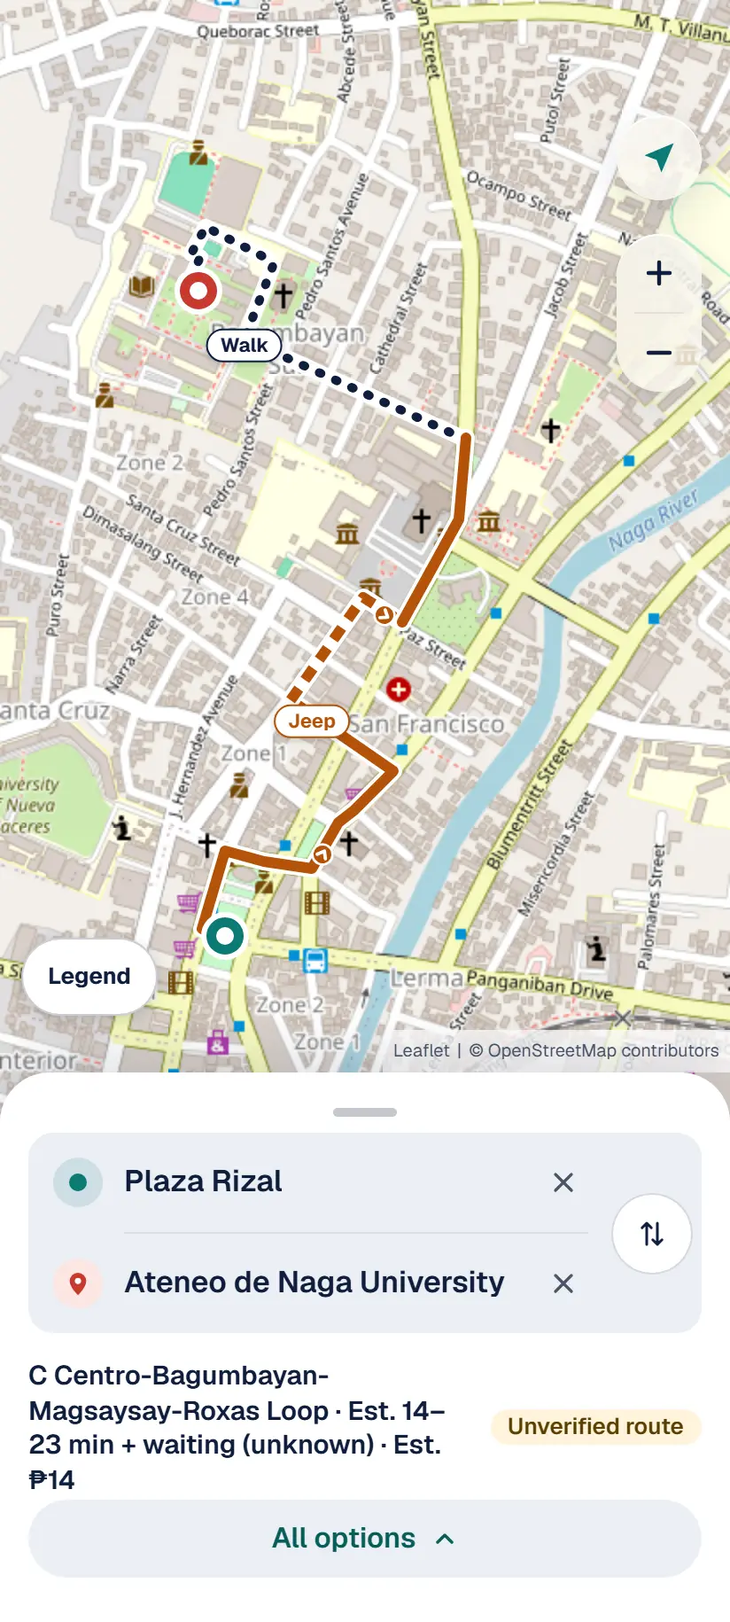
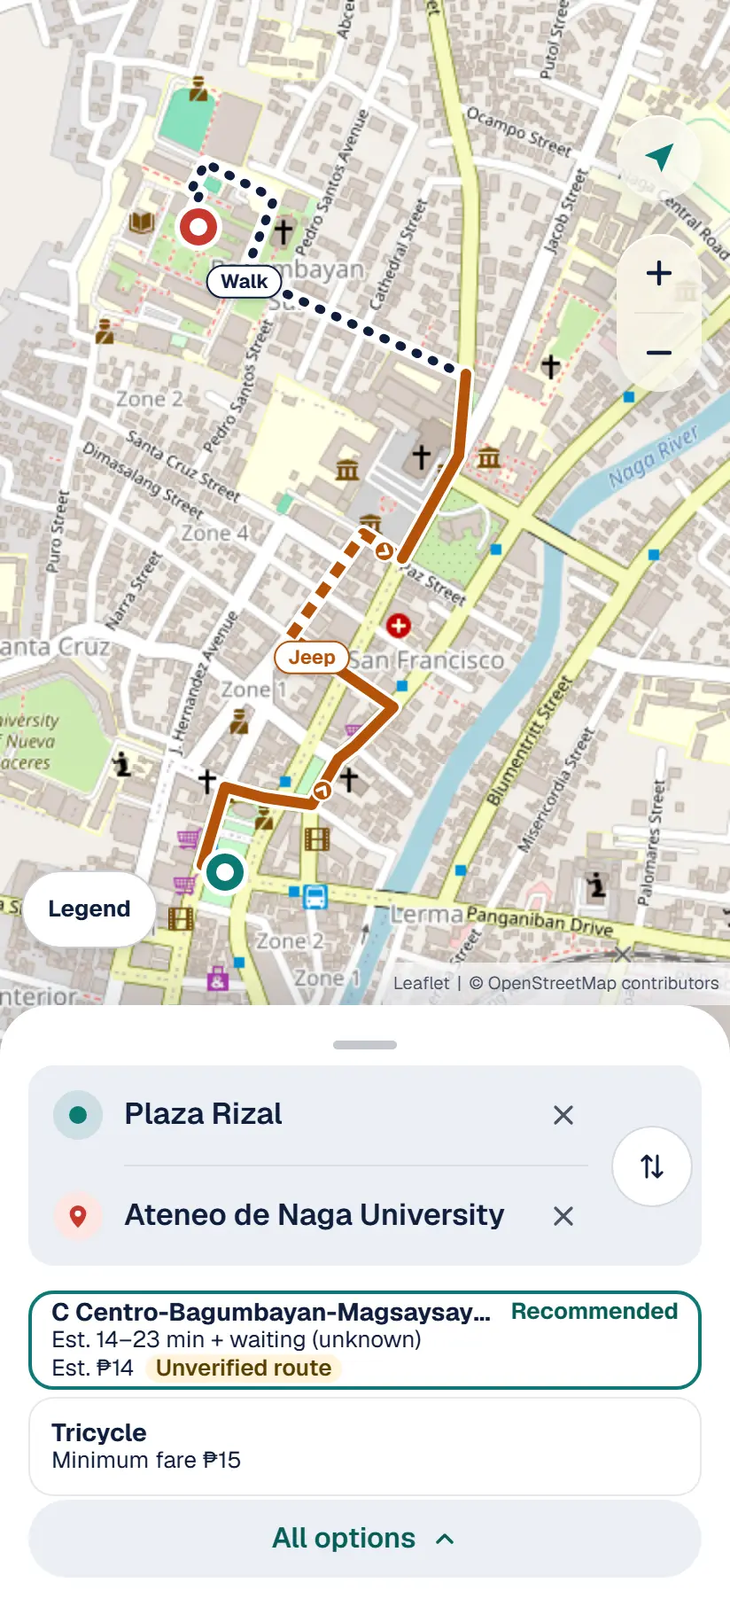
feat(web): landing captures follow current master (two-card peek, route tally)
- Re-captured every screen from current master against the published API: directions and the
  hero show the two-card peek (Recommended jeepney + tricycle), cards and detail show the route
  tally names (C ... Loop C (clockwise)), far-area options as the planner now gives them.
- Hero lines regenerated from the new capture (both themes).
- Route list on the page comes straight from src/domain/planner/route-display.ts (letters E-J and
  A-D, R1 without a letter), so it cannot drift again; copy says a route with no known letter
  shows its title alone and the route page gives each letter's source.
- Alt text and the directions showcase step describe the two-card peek and the new names.
- Far capture shows the options list from its top; capture size constants in shot-size.ts so the
  client slider does not bundle the copy.

diff --git a/src/ui/landing/hero-lines.ts b/src/ui/landing/hero-lines.ts
@@ -2,4 +2,4 @@
 // University), in screen pixels of the 412 x 915 capture, one set per theme. Do not edit by hand.
 // `step` is the piece's place in the trip (0 = leaving the start), for the draw-in order.
 export type HeroLine = { kind: "casing" | "walk" | "ride"; color: string; width: number; dash: string | null; points: string; step: number };
-export const HERO_LINES: Record<"light" | "dark", readonly HeroLine[]> = {"light":[{"kind":"casing","color":"rgb(255, 255, 255)","width":9,"dash":null,"points":"126.0,528.0 123.2,527.1 120.3,526.1 117.5,525.2 114.6,524.2 114.0,524.0","step":0},{"kind":"casing","color":"rgb(255, 255, 255)","width":10,"dash":null,"points":"114.0,524.0 114.9,521.1 115.7,518.2 116.6,515.4 117.4,512.5 118.3,509.6 119.1,506.7 120.0,503.9 120.8,501.0 121.7,498.1 122.5,495.2 123.4,492.4 124.2,489.5 125.1,486.6 125.9,483.7 126.8,480.8 129.0,480.6 131.9,481.3 134.8,482.1 137.7,482.9 140.6,483.7 143.5,484.5 146.4,485.3 149.3,486.0 152.3,486.5 155.2,486.9 158.2,487.4 161.2,487.8 164.2,488.2 167.1,488.7 170.1,489.1 173.1,489.6 176.0,490.0 177.5,487.4 179.0,484.8 180.5,482.2 182.0,479.6 183.5,477.0 185.0,474.4 186.5,471.8 188.0,469.2 189.5,466.6 191.0,464.0 193.4,462.2 195.7,460.3 198.1,458.5 200.4,456.6 202.5,454.5 204.7,452.3 206.8,450.2 208.9,448.1 211.0,446.0 213.2,443.8 215.3,441.7 217.4,439.6 219.5,437.5 221.6,435.4 219.9,433.6 217.5,431.9 215.0,430.2 212.5,428.5 210.1,426.8 207.6,425.1 205.1,423.4 202.7,421.7 200.2,420.0 197.7,418.3 195.3,416.6 192.8,414.9 190.3,413.1 187.8,411.4 185.4,409.7 182.9,408.0 180.4,406.3 178.0,404.6 175.5,402.9 173.0,401.2 170.6,399.5 168.1,397.8 165.6,396.1 164.0,395.0","step":1},{"kind":"casing","color":"rgb(255, 255, 255)","width":10,"dash":null,"points":"164.0,395.0 165.7,392.6 167.5,390.1 169.2,387.7 170.9,385.2 172.7,382.8 174.4,380.3 176.1,377.9 177.9,375.4 179.6,373.0 181.3,370.5 183.0,368.1 184.8,365.6 186.5,363.2 188.2,360.7 190.0,358.3 191.7,355.8 193.4,353.4 195.2,350.9 196.9,348.5 198.6,346.0 200.4,343.6 202.1,341.1 203.8,338.7 205.8,337.5 208.4,339.1 210.9,340.7 213.4,342.4 215.9,344.0 218.5,345.6 221.0,347.2 223.5,348.8 226.1,350.4 227.0,351.0","step":2},{"kind":"casing","color":"rgb(255, 255, 255)","width":10,"dash":null,"points":"227.0,351.0 228.4,348.4 229.9,345.7 231.3,343.1 232.8,340.5 234.2,337.9 235.7,335.2 237.1,332.6 238.6,330.0 240.0,327.4 241.5,324.7 242.9,322.1 244.4,319.5 245.8,316.9 247.3,314.2 248.7,311.6 250.2,309.0 251.6,306.3 253.1,303.7 254.5,301.1 256.0,298.5 257.4,295.8 258.9,293.2 259.2,290.3 259.5,287.3 259.8,284.3 260.0,281.3 260.3,278.3 260.5,275.3 260.8,272.3 261.1,269.3 261.3,266.3 261.6,263.4 261.8,260.4 262.1,257.4 262.4,254.4 262.6,251.4 262.9,248.4 263.0,247.0","step":3},{"kind":"casing","color":"rgb(255, 255, 255)","width":9,"dash":null,"points":"263.0,248.0 260.3,246.8 257.5,245.5 254.8,244.3 252.1,243.0 249.4,241.8 246.6,240.5 243.9,239.3 241.2,238.0 238.4,236.8 235.7,235.6 233.0,234.3 230.2,233.1 227.5,231.8 224.8,230.6 222.1,229.3 219.3,228.1 216.6,226.8 213.9,225.6 211.1,224.4 208.4,223.1 205.7,221.9 202.9,220.6 200.2,219.4 197.5,218.1 194.8,216.9 192.0,215.6 189.3,214.4 186.6,213.1 183.8,211.9 181.1,210.7 178.4,209.4 175.7,208.2 172.9,206.9 170.2,205.7 167.5,204.4 164.7,203.2 162.0,201.9 159.3,200.7 156.5,199.5 153.8,198.2 151.1,197.0 148.4,195.7 145.6,194.5 142.9,193.2 140.2,192.0 138.2,190.4 139.3,187.6 140.4,184.8 141.5,182.0 142.6,179.2 143.7,176.5 144.8,173.7 145.9,170.9 146.9,168.1 148.0,165.3 149.1,162.5 150.2,159.7 151.3,156.9 152.4,154.1 153.5,151.3 153.0,148.7 151.2,146.3 148.7,144.8 146.0,143.4 143.3,142.1 140.7,140.7 138.0,139.3 135.3,137.9 132.7,136.6 130.0,135.2 127.3,133.8 124.7,132.5 122.0,131.1 119.3,129.7 116.7,128.3 114.9,130.0 113.5,132.6 112.1,135.3 110.7,137.9 109.3,140.6 108.2,143.1 111.0,144.2 112.7,145.8 111.5,148.5 110.2,151.3 109.0,154.0 107.8,156.8 106.6,159.5 107.3,161.6 109.9,163.0 112.0,164.0","step":4},{"kind":"walk","color":"rgb(15, 30, 61)","width":5,"dash":"1px, 9px","points":"126.0,528.0 123.2,527.1 120.3,526.1 117.5,525.2 114.6,524.2 114.0,524.0","step":0},{"kind":"ride","color":"rgb(180, 83, 9)","width":6,"dash":null,"points":"114.0,524.0 114.9,521.1 115.7,518.2 116.6,515.4 117.4,512.5 118.3,509.6 119.1,506.7 120.0,503.9 120.8,501.0 121.7,498.1 122.5,495.2 123.4,492.4 124.2,489.5 125.1,486.6 125.9,483.7 126.8,480.8 129.0,480.6 131.9,481.3 134.8,482.1 137.7,482.9 140.6,483.7 143.5,484.5 146.4,485.3 149.3,486.0 152.3,486.5 155.2,486.9 158.2,487.4 161.2,487.8 164.2,488.2 167.1,488.7 170.1,489.1 173.1,489.6 176.0,490.0 177.5,487.4 179.0,484.8 180.5,482.2 182.0,479.6 183.5,477.0 185.0,474.4 186.5,471.8 188.0,469.2 189.5,466.6 191.0,464.0 193.4,462.2 195.7,460.3 198.1,458.5 200.4,456.6 202.5,454.5 204.7,452.3 206.8,450.2 208.9,448.1 211.0,446.0 213.2,443.8 215.3,441.7 217.4,439.6 219.5,437.5 221.6,435.4 219.9,433.6 217.5,431.9 215.0,430.2 212.5,428.5 210.1,426.8 207.6,425.1 205.1,423.4 202.7,421.7 200.2,420.0 197.7,418.3 195.3,416.6 192.8,414.9 190.3,413.1 187.8,411.4 185.4,409.7 182.9,408.0 180.4,406.3 178.0,404.6 175.5,402.9 173.0,401.2 170.6,399.5 168.1,397.8 165.6,396.1 164.0,395.0","step":1},{"kind":"ride","color":"rgb(180, 83, 9)","width":6,"dash":"8px, 6px","points":"164.0,395.0 165.7,392.6 167.5,390.1 169.2,387.7 170.9,385.2 172.7,382.8 174.4,380.3 176.1,377.9 177.9,375.4 179.6,373.0 181.3,370.5 183.0,368.1 184.8,365.6 186.5,363.2 188.2,360.7 190.0,358.3 191.7,355.8 193.4,353.4 195.2,350.9 196.9,348.5 198.6,346.0 200.4,343.6 202.1,341.1 203.8,338.7 205.8,337.5 208.4,339.1 210.9,340.7 213.4,342.4 215.9,344.0 218.5,345.6 221.0,347.2 223.5,348.8 226.1,350.4 227.0,351.0","step":2},{"kind":"ride","color":"rgb(180, 83, 9)","width":6,"dash":null,"points":"227.0,351.0 228.4,348.4 229.9,345.7 231.3,343.1 232.8,340.5 234.2,337.9 235.7,335.2 237.1,332.6 238.6,330.0 240.0,327.4 241.5,324.7 242.9,322.1 244.4,319.5 245.8,316.9 247.3,314.2 248.7,311.6 250.2,309.0 251.6,306.3 253.1,303.7 254.5,301.1 256.0,298.5 257.4,295.8 258.9,293.2 259.2,290.3 259.5,287.3 259.8,284.3 260.0,281.3 260.3,278.3 260.5,275.3 260.8,272.3 261.1,269.3 261.3,266.3 261.6,263.4 261.8,260.4 262.1,257.4 262.4,254.4 262.6,251.4 262.9,248.4 263.0,247.0","step":3},{"kind":"walk","color":"rgb(15, 30, 61)","width":5,"dash":"1px, 9px","points":"263.0,248.0 260.3,246.8 257.5,245.5 254.8,244.3 252.1,243.0 249.4,241.8 246.6,240.5 243.9,239.3 241.2,238.0 238.4,236.8 235.7,235.6 233.0,234.3 230.2,233.1 227.5,231.8 224.8,230.6 222.1,229.3 219.3,228.1 216.6,226.8 213.9,225.6 211.1,224.4 208.4,223.1 205.7,221.9 202.9,220.6 200.2,219.4 197.5,218.1 194.8,216.9 192.0,215.6 189.3,214.4 186.6,213.1 183.8,211.9 181.1,210.7 178.4,209.4 175.7,208.2 172.9,206.9 170.2,205.7 167.5,204.4 164.7,203.2 162.0,201.9 159.3,200.7 156.5,199.5 153.8,198.2 151.1,197.0 148.4,195.7 145.6,194.5 142.9,193.2 140.2,192.0 138.2,190.4 139.3,187.6 140.4,184.8 141.5,182.0 142.6,179.2 143.7,176.5 144.8,173.7 145.9,170.9 146.9,168.1 148.0,165.3 149.1,162.5 150.2,159.7 151.3,156.9 152.4,154.1 153.5,151.3 153.0,148.7 151.2,146.3 148.7,144.8 146.0,143.4 143.3,142.1 140.7,140.7 138.0,139.3 135.3,137.9 132.7,136.6 130.0,135.2 127.3,133.8 124.7,132.5 122.0,131.1 119.3,129.7 116.7,128.3 114.9,130.0 113.5,132.6 112.1,135.3 110.7,137.9 109.3,140.6 108.2,143.1 111.0,144.2 112.7,145.8 111.5,148.5 110.2,151.3 109.0,154.0 107.8,156.8 106.6,159.5 107.3,161.6 109.9,163.0 112.0,164.0","step":4}],"dark":[{"kind":"casing","color":"rgb(255, 255, 255)","width":9,"dash":null,"points":"126.0,528.0 123.2,527.1 120.3,526.1 117.5,525.2 114.6,524.2 114.0,524.0","step":0},{"kind":"casing","color":"rgb(255, 255, 255)","width":10,"dash":null,"points":"114.0,524.0 114.9,521.1 115.7,518.2 116.6,515.4 117.4,512.5 118.3,509.6 119.1,506.7 120.0,503.9 120.8,501.0 121.7,498.1 122.5,495.2 123.4,492.4 124.2,489.5 125.1,486.6 125.9,483.7 126.8,480.8 129.0,480.6 131.9,481.3 134.8,482.1 137.7,482.9 140.6,483.7 143.5,484.5 146.4,485.3 149.3,486.0 152.3,486.5 155.2,486.9 158.2,487.4 161.2,487.8 164.2,488.2 167.1,488.7 170.1,489.1 173.1,489.6 176.0,490.0 177.5,487.4 179.0,484.8 180.5,482.2 182.0,479.6 183.5,477.0 185.0,474.4 186.5,471.8 188.0,469.2 189.5,466.6 191.0,464.0 193.4,462.2 195.7,460.3 198.1,458.5 200.4,456.6 202.5,454.5 204.7,452.3 206.8,450.2 208.9,448.1 211.0,446.0 213.2,443.8 215.3,441.7 217.4,439.6 219.5,437.5 221.6,435.4 219.9,433.6 217.5,431.9 215.0,430.2 212.5,428.5 210.1,426.8 207.6,425.1 205.1,423.4 202.7,421.7 200.2,420.0 197.7,418.3 195.3,416.6 192.8,414.9 190.3,413.1 187.8,411.4 185.4,409.7 182.9,408.0 180.4,406.3 178.0,404.6 175.5,402.9 173.0,401.2 170.6,399.5 168.1,397.8 165.6,396.1 164.0,395.0","step":1},{"kind":"casing","color":"rgb(255, 255, 255)","width":10,"dash":null,"points":"164.0,395.0 165.7,392.6 167.5,390.1 169.2,387.7 170.9,385.2 172.7,382.8 174.4,380.3 176.1,377.9 177.9,375.4 179.6,373.0 181.3,370.5 183.0,368.1 184.8,365.6 186.5,363.2 188.2,360.7 190.0,358.3 191.7,355.8 193.4,353.4 195.2,350.9 196.9,348.5 198.6,346.0 200.4,343.6 202.1,341.1 203.8,338.7 205.8,337.5 208.4,339.1 210.9,340.7 213.4,342.4 215.9,344.0 218.5,345.6 221.0,347.2 223.5,348.8 226.1,350.4 227.0,351.0","step":2},{"kind":"casing","color":"rgb(255, 255, 255)","width":10,"dash":null,"points":"227.0,351.0 228.4,348.4 229.9,345.7 231.3,343.1 232.8,340.5 234.2,337.9 235.7,335.2 237.1,332.6 238.6,330.0 240.0,327.4 241.5,324.7 242.9,322.1 244.4,319.5 245.8,316.9 247.3,314.2 248.7,311.6 250.2,309.0 251.6,306.3 253.1,303.7 254.5,301.1 256.0,298.5 257.4,295.8 258.9,293.2 259.2,290.3 259.5,287.3 259.8,284.3 260.0,281.3 260.3,278.3 260.5,275.3 260.8,272.3 261.1,269.3 261.3,266.3 261.6,263.4 261.8,260.4 262.1,257.4 262.4,254.4 262.6,251.4 262.9,248.4 263.0,247.0","step":3},{"kind":"casing","color":"rgb(255, 255, 255)","width":9,"dash":null,"points":"263.0,248.0 260.3,246.8 257.5,245.5 254.8,244.3 252.1,243.0 249.4,241.8 246.6,240.5 243.9,239.3 241.2,238.0 238.4,236.8 235.7,235.6 233.0,234.3 230.2,233.1 227.5,231.8 224.8,230.6 222.1,229.3 219.3,228.1 216.6,226.8 213.9,225.6 211.1,224.4 208.4,223.1 205.7,221.9 202.9,220.6 200.2,219.4 197.5,218.1 194.8,216.9 192.0,215.6 189.3,214.4 186.6,213.1 183.8,211.9 181.1,210.7 178.4,209.4 175.7,208.2 172.9,206.9 170.2,205.7 167.5,204.4 164.7,203.2 162.0,201.9 159.3,200.7 156.5,199.5 153.8,198.2 151.1,197.0 148.4,195.7 145.6,194.5 142.9,193.2 140.2,192.0 138.2,190.4 139.3,187.6 140.4,184.8 141.5,182.0 142.6,179.2 143.7,176.5 144.8,173.7 145.9,170.9 146.9,168.1 148.0,165.3 149.1,162.5 150.2,159.7 151.3,156.9 152.4,154.1 153.5,151.3 153.0,148.7 151.2,146.3 148.7,144.8 146.0,143.4 143.3,142.1 140.7,140.7 138.0,139.3 135.3,137.9 132.7,136.6 130.0,135.2 127.3,133.8 124.7,132.5 122.0,131.1 119.3,129.7 116.7,128.3 114.9,130.0 113.5,132.6 112.1,135.3 110.7,137.9 109.3,140.6 108.2,143.1 111.0,144.2 112.7,145.8 111.5,148.5 110.2,151.3 109.0,154.0 107.8,156.8 106.6,159.5 107.3,161.6 109.9,163.0 112.0,164.0","step":4},{"kind":"walk","color":"rgb(15, 30, 61)","width":5,"dash":"1px, 9px","points":"126.0,528.0 123.2,527.1 120.3,526.1 117.5,525.2 114.6,524.2 114.0,524.0","step":0},{"kind":"ride","color":"rgb(180, 83, 9)","width":6,"dash":null,"points":"114.0,524.0 114.9,521.1 115.7,518.2 116.6,515.4 117.4,512.5 118.3,509.6 119.1,506.7 120.0,503.9 120.8,501.0 121.7,498.1 122.5,495.2 123.4,492.4 124.2,489.5 125.1,486.6 125.9,483.7 126.8,480.8 129.0,480.6 131.9,481.3 134.8,482.1 137.7,482.9 140.6,483.7 143.5,484.5 146.4,485.3 149.3,486.0 152.3,486.5 155.2,486.9 158.2,487.4 161.2,487.8 164.2,488.2 167.1,488.7 170.1,489.1 173.1,489.6 176.0,490.0 177.5,487.4 179.0,484.8 180.5,482.2 182.0,479.6 183.5,477.0 185.0,474.4 186.5,471.8 188.0,469.2 189.5,466.6 191.0,464.0 193.4,462.2 195.7,460.3 198.1,458.5 200.4,456.6 202.5,454.5 204.7,452.3 206.8,450.2 208.9,448.1 211.0,446.0 213.2,443.8 215.3,441.7 217.4,439.6 219.5,437.5 221.6,435.4 219.9,433.6 217.5,431.9 215.0,430.2 212.5,428.5 210.1,426.8 207.6,425.1 205.1,423.4 202.7,421.7 200.2,420.0 197.7,418.3 195.3,416.6 192.8,414.9 190.3,413.1 187.8,411.4 185.4,409.7 182.9,408.0 180.4,406.3 178.0,404.6 175.5,402.9 173.0,401.2 170.6,399.5 168.1,397.8 165.6,396.1 164.0,395.0","step":1},{"kind":"ride","color":"rgb(180, 83, 9)","width":6,"dash":"8px, 6px","points":"164.0,395.0 165.7,392.6 167.5,390.1 169.2,387.7 170.9,385.2 172.7,382.8 174.4,380.3 176.1,377.9 177.9,375.4 179.6,373.0 181.3,370.5 183.0,368.1 184.8,365.6 186.5,363.2 188.2,360.7 190.0,358.3 191.7,355.8 193.4,353.4 195.2,350.9 196.9,348.5 198.6,346.0 200.4,343.6 202.1,341.1 203.8,338.7 205.8,337.5 208.4,339.1 210.9,340.7 213.4,342.4 215.9,344.0 218.5,345.6 221.0,347.2 223.5,348.8 226.1,350.4 227.0,351.0","step":2},{"kind":"ride","color":"rgb(180, 83, 9)","width":6,"dash":null,"points":"227.0,351.0 228.4,348.4 229.9,345.7 231.3,343.1 232.8,340.5 234.2,337.9 235.7,335.2 237.1,332.6 238.6,330.0 240.0,327.4 241.5,324.7 242.9,322.1 244.4,319.5 245.8,316.9 247.3,314.2 248.7,311.6 250.2,309.0 251.6,306.3 253.1,303.7 254.5,301.1 256.0,298.5 257.4,295.8 258.9,293.2 259.2,290.3 259.5,287.3 259.8,284.3 260.0,281.3 260.3,278.3 260.5,275.3 260.8,272.3 261.1,269.3 261.3,266.3 261.6,263.4 261.8,260.4 262.1,257.4 262.4,254.4 262.6,251.4 262.9,248.4 263.0,247.0","step":3},{"kind":"walk","color":"rgb(15, 30, 61)","width":5,"dash":"1px, 9px","points":"263.0,248.0 260.3,246.8 257.5,245.5 254.8,244.3 252.1,243.0 249.4,241.8 246.6,240.5 243.9,239.3 241.2,238.0 238.4,236.8 235.7,235.6 233.0,234.3 230.2,233.1 227.5,231.8 224.8,230.6 222.1,229.3 219.3,228.1 216.6,226.8 213.9,225.6 211.1,224.4 208.4,223.1 205.7,221.9 202.9,220.6 200.2,219.4 197.5,218.1 194.8,216.9 192.0,215.6 189.3,214.4 186.6,213.1 183.8,211.9 181.1,210.7 178.4,209.4 175.7,208.2 172.9,206.9 170.2,205.7 167.5,204.4 164.7,203.2 162.0,201.9 159.3,200.7 156.5,199.5 153.8,198.2 151.1,197.0 148.4,195.7 145.6,194.5 142.9,193.2 140.2,192.0 138.2,190.4 139.3,187.6 140.4,184.8 141.5,182.0 142.6,179.2 143.7,176.5 144.8,173.7 145.9,170.9 146.9,168.1 148.0,165.3 149.1,162.5 150.2,159.7 151.3,156.9 152.4,154.1 153.5,151.3 153.0,148.7 151.2,146.3 148.7,144.8 146.0,143.4 143.3,142.1 140.7,140.7 138.0,139.3 135.3,137.9 132.7,136.6 130.0,135.2 127.3,133.8 124.7,132.5 122.0,131.1 119.3,129.7 116.7,128.3 114.9,130.0 113.5,132.6 112.1,135.3 110.7,137.9 109.3,140.6 108.2,143.1 111.0,144.2 112.7,145.8 111.5,148.5 110.2,151.3 109.0,154.0 107.8,156.8 106.6,159.5 107.3,161.6 109.9,163.0 112.0,164.0","step":4}]};
+export const HERO_LINES: Record<"light" | "dark", readonly HeroLine[]> = {"light":[{"kind":"casing","color":"rgb(255, 255, 255)","width":9,"dash":null,"points":"126.0,492.0 123.2,491.1 120.3,490.1 117.5,489.2 114.6,488.2 114.0,488.0","step":0},{"kind":"casing","color":"rgb(255, 255, 255)","width":10,"dash":null,"points":"114.0,488.0 114.9,485.1 115.7,482.2 116.6,479.4 117.4,476.5 118.3,473.6 119.1,470.7 120.0,467.9 120.8,465.0 121.7,462.1 122.5,459.2 123.4,456.4 124.2,453.5 125.1,450.6 125.9,447.7 126.8,444.8 129.0,444.6 131.9,445.3 134.8,446.1 137.7,446.9 140.6,447.7 143.5,448.5 146.4,449.3 149.3,450.0 152.3,450.5 155.2,450.9 158.2,451.4 161.2,451.8 164.2,452.2 167.1,452.7 170.1,453.1 173.1,453.6 176.0,454.0 177.5,451.4 179.0,448.8 180.5,446.2 182.0,443.6 183.5,441.0 185.0,438.4 186.5,435.8 188.0,433.2 189.5,430.6 191.0,428.0 193.4,426.2 195.7,424.3 198.1,422.5 200.4,420.6 202.5,418.5 204.7,416.3 206.8,414.2 208.9,412.1 211.0,410.0 213.2,407.8 215.3,405.7 217.4,403.6 219.5,401.5 221.6,399.4 219.9,397.6 217.5,395.9 215.0,394.2 212.5,392.5 210.1,390.8 207.6,389.1 205.1,387.4 202.7,385.7 200.2,384.0 197.7,382.3 195.3,380.6 192.8,378.9 190.3,377.1 187.8,375.4 185.4,373.7 182.9,372.0 180.4,370.3 178.0,368.6 175.5,366.9 173.0,365.2 170.6,363.5 168.1,361.8 165.6,360.1 164.0,359.0","step":1},{"kind":"casing","color":"rgb(255, 255, 255)","width":10,"dash":null,"points":"164.0,359.0 165.7,356.6 167.5,354.1 169.2,351.7 170.9,349.2 172.7,346.8 174.4,344.3 176.1,341.9 177.9,339.4 179.6,337.0 181.3,334.5 183.0,332.1 184.8,329.6 186.5,327.2 188.2,324.7 190.0,322.3 191.7,319.8 193.4,317.4 195.2,314.9 196.9,312.5 198.6,310.0 200.4,307.6 202.1,305.1 203.8,302.7 205.8,301.5 208.4,303.1 210.9,304.7 213.4,306.4 215.9,308.0 218.5,309.6 221.0,311.2 223.5,312.8 226.1,314.4 227.0,315.0","step":2},{"kind":"casing","color":"rgb(255, 255, 255)","width":10,"dash":null,"points":"227.0,315.0 228.4,312.4 229.9,309.7 231.3,307.1 232.8,304.5 234.2,301.9 235.7,299.2 237.1,296.6 238.6,294.0 240.0,291.4 241.5,288.7 242.9,286.1 244.4,283.5 245.8,280.9 247.3,278.2 248.7,275.6 250.2,273.0 251.6,270.3 253.1,267.7 254.5,265.1 256.0,262.5 257.4,259.8 258.9,257.2 259.2,254.3 259.5,251.3 259.8,248.3 260.0,245.3 260.3,242.3 260.5,239.3 260.8,236.3 261.1,233.3 261.3,230.3 261.6,227.4 261.8,224.4 262.1,221.4 262.4,218.4 262.6,215.4 262.9,212.4 263.0,211.0","step":3},{"kind":"casing","color":"rgb(255, 255, 255)","width":9,"dash":null,"points":"263.0,212.0 260.3,210.8 257.5,209.5 254.8,208.3 252.1,207.0 249.4,205.8 246.6,204.5 243.9,203.3 241.2,202.0 238.4,200.8 235.7,199.6 233.0,198.3 230.2,197.1 227.5,195.8 224.8,194.6 222.1,193.3 219.3,192.1 216.6,190.8 213.9,189.6 211.1,188.4 208.4,187.1 205.7,185.9 202.9,184.6 200.2,183.4 197.5,182.1 194.8,180.9 192.0,179.6 189.3,178.4 186.6,177.1 183.8,175.9 181.1,174.7 178.4,173.4 175.7,172.2 172.9,170.9 170.2,169.7 167.5,168.4 164.7,167.2 162.0,165.9 159.3,164.7 156.5,163.5 153.8,162.2 151.1,161.0 148.4,159.7 145.6,158.5 142.9,157.2 140.2,156.0 138.2,154.4 139.3,151.6 140.4,148.8 141.5,146.0 142.6,143.2 143.7,140.5 144.8,137.7 145.9,134.9 146.9,132.1 148.0,129.3 149.1,126.5 150.2,123.7 151.3,120.9 152.4,118.1 153.5,115.3 153.0,112.7 151.2,110.3 148.7,108.8 146.0,107.4 143.3,106.1 140.7,104.7 138.0,103.3 135.3,101.9 132.7,100.6 130.0,99.2 127.3,97.8 124.7,96.5 122.0,95.1 119.3,93.7 116.7,92.3 114.9,94.0 113.5,96.6 112.1,99.3 110.7,101.9 109.3,104.6 108.2,107.1 111.0,108.2 112.7,109.8 111.5,112.5 110.2,115.3 109.0,118.0 107.8,120.8 106.6,123.5 107.3,125.6 109.9,127.0 112.0,128.0","step":4},{"kind":"walk","color":"rgb(15, 30, 61)","width":5,"dash":"1px, 9px","points":"126.0,492.0 123.2,491.1 120.3,490.1 117.5,489.2 114.6,488.2 114.0,488.0","step":0},{"kind":"ride","color":"rgb(180, 83, 9)","width":6,"dash":null,"points":"114.0,488.0 114.9,485.1 115.7,482.2 116.6,479.4 117.4,476.5 118.3,473.6 119.1,470.7 120.0,467.9 120.8,465.0 121.7,462.1 122.5,459.2 123.4,456.4 124.2,453.5 125.1,450.6 125.9,447.7 126.8,444.8 129.0,444.6 131.9,445.3 134.8,446.1 137.7,446.9 140.6,447.7 143.5,448.5 146.4,449.3 149.3,450.0 152.3,450.5 155.2,450.9 158.2,451.4 161.2,451.8 164.2,452.2 167.1,452.7 170.1,453.1 173.1,453.6 176.0,454.0 177.5,451.4 179.0,448.8 180.5,446.2 182.0,443.6 183.5,441.0 185.0,438.4 186.5,435.8 188.0,433.2 189.5,430.6 191.0,428.0 193.4,426.2 195.7,424.3 198.1,422.5 200.4,420.6 202.5,418.5 204.7,416.3 206.8,414.2 208.9,412.1 211.0,410.0 213.2,407.8 215.3,405.7 217.4,403.6 219.5,401.5 221.6,399.4 219.9,397.6 217.5,395.9 215.0,394.2 212.5,392.5 210.1,390.8 207.6,389.1 205.1,387.4 202.7,385.7 200.2,384.0 197.7,382.3 195.3,380.6 192.8,378.9 190.3,377.1 187.8,375.4 185.4,373.7 182.9,372.0 180.4,370.3 178.0,368.6 175.5,366.9 173.0,365.2 170.6,363.5 168.1,361.8 165.6,360.1 164.0,359.0","step":1},{"kind":"ride","color":"rgb(180, 83, 9)","width":6,"dash":"8px, 6px","points":"164.0,359.0 165.7,356.6 167.5,354.1 169.2,351.7 170.9,349.2 172.7,346.8 174.4,344.3 176.1,341.9 177.9,339.4 179.6,337.0 181.3,334.5 183.0,332.1 184.8,329.6 186.5,327.2 188.2,324.7 190.0,322.3 191.7,319.8 193.4,317.4 195.2,314.9 196.9,312.5 198.6,310.0 200.4,307.6 202.1,305.1 203.8,302.7 205.8,301.5 208.4,303.1 210.9,304.7 213.4,306.4 215.9,308.0 218.5,309.6 221.0,311.2 223.5,312.8 226.1,314.4 227.0,315.0","step":2},{"kind":"ride","color":"rgb(180, 83, 9)","width":6,"dash":null,"points":"227.0,315.0 228.4,312.4 229.9,309.7 231.3,307.1 232.8,304.5 234.2,301.9 235.7,299.2 237.1,296.6 238.6,294.0 240.0,291.4 241.5,288.7 242.9,286.1 244.4,283.5 245.8,280.9 247.3,278.2 248.7,275.6 250.2,273.0 251.6,270.3 253.1,267.7 254.5,265.1 256.0,262.5 257.4,259.8 258.9,257.2 259.2,254.3 259.5,251.3 259.8,248.3 260.0,245.3 260.3,242.3 260.5,239.3 260.8,236.3 261.1,233.3 261.3,230.3 261.6,227.4 261.8,224.4 262.1,221.4 262.4,218.4 262.6,215.4 262.9,212.4 263.0,211.0","step":3},{"kind":"walk","color":"rgb(15, 30, 61)","width":5,"dash":"1px, 9px","points":"263.0,212.0 260.3,210.8 257.5,209.5 254.8,208.3 252.1,207.0 249.4,205.8 246.6,204.5 243.9,203.3 241.2,202.0 238.4,200.8 235.7,199.6 233.0,198.3 230.2,197.1 227.5,195.8 224.8,194.6 222.1,193.3 219.3,192.1 216.6,190.8 213.9,189.6 211.1,188.4 208.4,187.1 205.7,185.9 202.9,184.6 200.2,183.4 197.5,182.1 194.8,180.9 192.0,179.6 189.3,178.4 186.6,177.1 183.8,175.9 181.1,174.7 178.4,173.4 175.7,172.2 172.9,170.9 170.2,169.7 167.5,168.4 164.7,167.2 162.0,165.9 159.3,164.7 156.5,163.5 153.8,162.2 151.1,161.0 148.4,159.7 145.6,158.5 142.9,157.2 140.2,156.0 138.2,154.4 139.3,151.6 140.4,148.8 141.5,146.0 142.6,143.2 143.7,140.5 144.8,137.7 145.9,134.9 146.9,132.1 148.0,129.3 149.1,126.5 150.2,123.7 151.3,120.9 152.4,118.1 153.5,115.3 153.0,112.7 151.2,110.3 148.7,108.8 146.0,107.4 143.3,106.1 140.7,104.7 138.0,103.3 135.3,101.9 132.7,100.6 130.0,99.2 127.3,97.8 124.7,96.5 122.0,95.1 119.3,93.7 116.7,92.3 114.9,94.0 113.5,96.6 112.1,99.3 110.7,101.9 109.3,104.6 108.2,107.1 111.0,108.2 112.7,109.8 111.5,112.5 110.2,115.3 109.0,118.0 107.8,120.8 106.6,123.5 107.3,125.6 109.9,127.0 112.0,128.0","step":4}],"dark":[{"kind":"casing","color":"rgb(255, 255, 255)","width":9,"dash":null,"points":"126.0,492.0 123.2,491.1 120.3,490.1 117.5,489.2 114.6,488.2 114.0,488.0","step":0},{"kind":"casing","color":"rgb(255, 255, 255)","width":10,"dash":null,"points":"114.0,488.0 114.9,485.1 115.7,482.2 116.6,479.4 117.4,476.5 118.3,473.6 119.1,470.7 120.0,467.9 120.8,465.0 121.7,462.1 122.5,459.2 123.4,456.4 124.2,453.5 125.1,450.6 125.9,447.7 126.8,444.8 129.0,444.6 131.9,445.3 134.8,446.1 137.7,446.9 140.6,447.7 143.5,448.5 146.4,449.3 149.3,450.0 152.3,450.5 155.2,450.9 158.2,451.4 161.2,451.8 164.2,452.2 167.1,452.7 170.1,453.1 173.1,453.6 176.0,454.0 177.5,451.4 179.0,448.8 180.5,446.2 182.0,443.6 183.5,441.0 185.0,438.4 186.5,435.8 188.0,433.2 189.5,430.6 191.0,428.0 193.4,426.2 195.7,424.3 198.1,422.5 200.4,420.6 202.5,418.5 204.7,416.3 206.8,414.2 208.9,412.1 211.0,410.0 213.2,407.8 215.3,405.7 217.4,403.6 219.5,401.5 221.6,399.4 219.9,397.6 217.5,395.9 215.0,394.2 212.5,392.5 210.1,390.8 207.6,389.1 205.1,387.4 202.7,385.7 200.2,384.0 197.7,382.3 195.3,380.6 192.8,378.9 190.3,377.1 187.8,375.4 185.4,373.7 182.9,372.0 180.4,370.3 178.0,368.6 175.5,366.9 173.0,365.2 170.6,363.5 168.1,361.8 165.6,360.1 164.0,359.0","step":1},{"kind":"casing","color":"rgb(255, 255, 255)","width":10,"dash":null,"points":"164.0,359.0 165.7,356.6 167.5,354.1 169.2,351.7 170.9,349.2 172.7,346.8 174.4,344.3 176.1,341.9 177.9,339.4 179.6,337.0 181.3,334.5 183.0,332.1 184.8,329.6 186.5,327.2 188.2,324.7 190.0,322.3 191.7,319.8 193.4,317.4 195.2,314.9 196.9,312.5 198.6,310.0 200.4,307.6 202.1,305.1 203.8,302.7 205.8,301.5 208.4,303.1 210.9,304.7 213.4,306.4 215.9,308.0 218.5,309.6 221.0,311.2 223.5,312.8 226.1,314.4 227.0,315.0","step":2},{"kind":"casing","color":"rgb(255, 255, 255)","width":10,"dash":null,"points":"227.0,315.0 228.4,312.4 229.9,309.7 231.3,307.1 232.8,304.5 234.2,301.9 235.7,299.2 237.1,296.6 238.6,294.0 240.0,291.4 241.5,288.7 242.9,286.1 244.4,283.5 245.8,280.9 247.3,278.2 248.7,275.6 250.2,273.0 251.6,270.3 253.1,267.7 254.5,265.1 256.0,262.5 257.4,259.8 258.9,257.2 259.2,254.3 259.5,251.3 259.8,248.3 260.0,245.3 260.3,242.3 260.5,239.3 260.8,236.3 261.1,233.3 261.3,230.3 261.6,227.4 261.8,224.4 262.1,221.4 262.4,218.4 262.6,215.4 262.9,212.4 263.0,211.0","step":3},{"kind":"casing","color":"rgb(255, 255, 255)","width":9,"dash":null,"points":"263.0,212.0 260.3,210.8 257.5,209.5 254.8,208.3 252.1,207.0 249.4,205.8 246.6,204.5 243.9,203.3 241.2,202.0 238.4,200.8 235.7,199.6 233.0,198.3 230.2,197.1 227.5,195.8 224.8,194.6 222.1,193.3 219.3,192.1 216.6,190.8 213.9,189.6 211.1,188.4 208.4,187.1 205.7,185.9 202.9,184.6 200.2,183.4 197.5,182.1 194.8,180.9 192.0,179.6 189.3,178.4 186.6,177.1 183.8,175.9 181.1,174.7 178.4,173.4 175.7,172.2 172.9,170.9 170.2,169.7 167.5,168.4 164.7,167.2 162.0,165.9 159.3,164.7 156.5,163.5 153.8,162.2 151.1,161.0 148.4,159.7 145.6,158.5 142.9,157.2 140.2,156.0 138.2,154.4 139.3,151.6 140.4,148.8 141.5,146.0 142.6,143.2 143.7,140.5 144.8,137.7 145.9,134.9 146.9,132.1 148.0,129.3 149.1,126.5 150.2,123.7 151.3,120.9 152.4,118.1 153.5,115.3 153.0,112.7 151.2,110.3 148.7,108.8 146.0,107.4 143.3,106.1 140.7,104.7 138.0,103.3 135.3,101.9 132.7,100.6 130.0,99.2 127.3,97.8 124.7,96.5 122.0,95.1 119.3,93.7 116.7,92.3 114.9,94.0 113.5,96.6 112.1,99.3 110.7,101.9 109.3,104.6 108.2,107.1 111.0,108.2 112.7,109.8 111.5,112.5 110.2,115.3 109.0,118.0 107.8,120.8 106.6,123.5 107.3,125.6 109.9,127.0 112.0,128.0","step":4},{"kind":"walk","color":"rgb(15, 30, 61)","width":5,"dash":"1px, 9px","points":"126.0,492.0 123.2,491.1 120.3,490.1 117.5,489.2 114.6,488.2 114.0,488.0","step":0},{"kind":"ride","color":"rgb(180, 83, 9)","width":6,"dash":null,"points":"114.0,488.0 114.9,485.1 115.7,482.2 116.6,479.4 117.4,476.5 118.3,473.6 119.1,470.7 120.0,467.9 120.8,465.0 121.7,462.1 122.5,459.2 123.4,456.4 124.2,453.5 125.1,450.6 125.9,447.7 126.8,444.8 129.0,444.6 131.9,445.3 134.8,446.1 137.7,446.9 140.6,447.7 143.5,448.5 146.4,449.3 149.3,450.0 152.3,450.5 155.2,450.9 158.2,451.4 161.2,451.8 164.2,452.2 167.1,452.7 170.1,453.1 173.1,453.6 176.0,454.0 177.5,451.4 179.0,448.8 180.5,446.2 182.0,443.6 183.5,441.0 185.0,438.4 186.5,435.8 188.0,433.2 189.5,430.6 191.0,428.0 193.4,426.2 195.7,424.3 198.1,422.5 200.4,420.6 202.5,418.5 204.7,416.3 206.8,414.2 208.9,412.1 211.0,410.0 213.2,407.8 215.3,405.7 217.4,403.6 219.5,401.5 221.6,399.4 219.9,397.6 217.5,395.9 215.0,394.2 212.5,392.5 210.1,390.8 207.6,389.1 205.1,387.4 202.7,385.7 200.2,384.0 197.7,382.3 195.3,380.6 192.8,378.9 190.3,377.1 187.8,375.4 185.4,373.7 182.9,372.0 180.4,370.3 178.0,368.6 175.5,366.9 173.0,365.2 170.6,363.5 168.1,361.8 165.6,360.1 164.0,359.0","step":1},{"kind":"ride","color":"rgb(180, 83, 9)","width":6,"dash":"8px, 6px","points":"164.0,359.0 165.7,356.6 167.5,354.1 169.2,351.7 170.9,349.2 172.7,346.8 174.4,344.3 176.1,341.9 177.9,339.4 179.6,337.0 181.3,334.5 183.0,332.1 184.8,329.6 186.5,327.2 188.2,324.7 190.0,322.3 191.7,319.8 193.4,317.4 195.2,314.9 196.9,312.5 198.6,310.0 200.4,307.6 202.1,305.1 203.8,302.7 205.8,301.5 208.4,303.1 210.9,304.7 213.4,306.4 215.9,308.0 218.5,309.6 221.0,311.2 223.5,312.8 226.1,314.4 227.0,315.0","step":2},{"kind":"ride","color":"rgb(180, 83, 9)","width":6,"dash":null,"points":"227.0,315.0 228.4,312.4 229.9,309.7 231.3,307.1 232.8,304.5 234.2,301.9 235.7,299.2 237.1,296.6 238.6,294.0 240.0,291.4 241.5,288.7 242.9,286.1 244.4,283.5 245.8,280.9 247.3,278.2 248.7,275.6 250.2,273.0 251.6,270.3 253.1,267.7 254.5,265.1 256.0,262.5 257.4,259.8 258.9,257.2 259.2,254.3 259.5,251.3 259.8,248.3 260.0,245.3 260.3,242.3 260.5,239.3 260.8,236.3 261.1,233.3 261.3,230.3 261.6,227.4 261.8,224.4 262.1,221.4 262.4,218.4 262.6,215.4 262.9,212.4 263.0,211.0","step":3},{"kind":"walk","color":"rgb(15, 30, 61)","width":5,"dash":"1px, 9px","points":"263.0,212.0 260.3,210.8 257.5,209.5 254.8,208.3 252.1,207.0 249.4,205.8 246.6,204.5 243.9,203.3 241.2,202.0 238.4,200.8 235.7,199.6 233.0,198.3 230.2,197.1 227.5,195.8 224.8,194.6 222.1,193.3 219.3,192.1 216.6,190.8 213.9,189.6 211.1,188.4 208.4,187.1 205.7,185.9 202.9,184.6 200.2,183.4 197.5,182.1 194.8,180.9 192.0,179.6 189.3,178.4 186.6,177.1 183.8,175.9 181.1,174.7 178.4,173.4 175.7,172.2 172.9,170.9 170.2,169.7 167.5,168.4 164.7,167.2 162.0,165.9 159.3,164.7 156.5,163.5 153.8,162.2 151.1,161.0 148.4,159.7 145.6,158.5 142.9,157.2 140.2,156.0 138.2,154.4 139.3,151.6 140.4,148.8 141.5,146.0 142.6,143.2 143.7,140.5 144.8,137.7 145.9,134.9 146.9,132.1 148.0,129.3 149.1,126.5 150.2,123.7 151.3,120.9 152.4,118.1 153.5,115.3 153.0,112.7 151.2,110.3 148.7,108.8 146.0,107.4 143.3,106.1 140.7,104.7 138.0,103.3 135.3,101.9 132.7,100.6 130.0,99.2 127.3,97.8 124.7,96.5 122.0,95.1 119.3,93.7 116.7,92.3 114.9,94.0 113.5,96.6 112.1,99.3 110.7,101.9 109.3,104.6 108.2,107.1 111.0,108.2 112.7,109.8 111.5,112.5 110.2,115.3 109.0,118.0 107.8,120.8 106.6,123.5 107.3,125.6 109.9,127.0 112.0,128.0","step":4}]};

diff --git a/src/ui/landing/landing-content.ts b/src/ui/landing/landing-content.ts
@@ -1,40 +1,28 @@
 // Landing page copy and facts, kept in one place so tests/unit/landing-copy.test.ts can hold them to
 // the app's copy rules (docs/spec/06-screens.md §6.5): no live, ETA or arriving wording, nothing
 // called verified that is not, no e-jeepneys, estimates as ranges, tricycles and padyaks never
-// timed. Every fact here comes from the app itself (src/domain/planner/route-display.ts, the help
-// articles, docs/spec/01-product.md); nothing is invented.
+// timed. Every fact here comes from the app itself (route names straight from
+// src/domain/planner/route-display.ts, the help articles, docs/spec/01-product.md); nothing is invented.
 
-/** The route groups as the planner names them: sign letter (only where a source gives one) + title. */
-export const ROUTES: readonly { letter: string | null; title: string }[] = [
-  { letter: null, title: "Centro-Cararayan-San Isidro" },
-  { letter: "E", title: "Centro-Del Rosario via Magsaysay Ave" },
-  { letter: null, title: "Centro-Del Rosario via Roxas Ave (Diversion)" },
-  { letter: null, title: "Centro-Del Rosario via Panganiban Drive" },
-  { letter: null, title: "Centro-Francia-San Felipe" },
-  { letter: "I", title: "Centro-Pacol" },
-  { letter: "J", title: "Centro-Carolina-Panicuason" },
-  { letter: "A", title: "Centro-Magsaysay Loop" },
-  { letter: "B", title: "Centro-Magsaysay Loop" },
-  { letter: "C", title: "Centro-Bagumbayan-Magsaysay-Roxas Loop" },
-  { letter: "D", title: "Centro-Francia-Magsaysay-Diversion" },
-];
+import { ROUTE_DISPLAY } from "@/domain/planner/route-display";
 
-// The captures are 412 x 915 CSS px (Pixel 7 emulation) at 2x.
-export const SHOT_W = 824;
-export const SHOT_H = 1830;
+/** The routes exactly as the app names them (sign letter where one is known, then the title). */
+export const ROUTES: readonly { letter: string | null; title: string }[] = Object.values(ROUTE_DISPLAY).map(({ letter, title }) => ({ letter, title }));
+
+export { SHOT_H, SHOT_W } from "@/ui/landing/shot-size";
 
 export type Screen = "home" | "search" | "directions" | "options" | "detail" | "saved" | "far" | "report" | "hero";
 
 /** What each capture shows, for its alt text (public/landing/<screen>-<theme>.webp). */
 export const SCREEN_ALT: Record<Screen, string> = {
-  hero: "ParaNaga on a phone: a street map of Naga City with a trip from Plaza Rizal to Ateneo de Naga University, the C Centro-Bagumbayan-Magsaysay-Roxas Loop, an estimated fare of ₱14 and an Unverified route badge.",
+  hero: "ParaNaga on a phone: a street map of Naga City with a trip from Plaza Rizal to Ateneo de Naga University and two options under it: the Recommended C Centro-Bagumbayan-Magsaysay-Roxas Loop C (clockwise), estimated 14 to 23 minutes plus waiting and ₱14, marked Unverified route, and a tricycle at a minimum fare of ₱15.",
   home: "ParaNaga's home screen: a street map of central Naga City with a Where to? bar, chips for Food & drink, Schools, Health and Markets & malls, terminal pins and a tab bar.",
   search: "Search for Ateneo: places from OpenStreetMap such as Ateneo de Naga University, and a mapped stop on Loops C and D marked Mapped candidate.",
-  directions: "Directions from Plaza Rizal to Ateneo de Naga University: a walk and a jeepney ride drawn on the map, with the C Loop, an estimated 14 to 23 minutes plus waiting, and an estimated fare of ₱14.",
-  options: "Trip options: Recommended C Centro-Bagumbayan-Magsaysay-Roxas Loop with an estimated fare of ₱14, and a tricycle card with a minimum fare of ₱15 and Time not estimated.",
-  detail: "Trip details for the C Loop: estimated 14 to 23 minutes plus waiting, estimated fare ₱14, peak-hour note, Save and Share buttons and a Start trip button.",
+  directions: "Directions from Plaza Rizal to Ateneo de Naga University: a walk and a jeepney ride drawn on the map, and two option cards: the Recommended C Centro-Bagumbayan-Magsaysay-Roxas Loop C (clockwise), estimated 14 to 23 minutes plus waiting and ₱14, and a tricycle at a minimum fare of ₱15.",
+  options: "All trip options: Recommended C Centro-Bagumbayan-Magsaysay-Roxas Loop C (clockwise) with an estimated fare of ₱14, and a tricycle card with Time not estimated, the restricted roads it avoids and a minimum fare of ₱15.",
+  detail: "Trip details for C Centro-Bagumbayan-Magsaysay-Roxas Loop C (clockwise): the walk and ride on the map, estimated 14 to 23 minutes plus waiting, estimated fare ₱14, a peak-hour note and a Start trip button.",
   saved: "Saved screen: a trip from Plaza Rizal to Ateneo de Naga University marked Available offline, with its walk, ride and estimated fare.",
-  far: "Trip options to Pacol: a Local report note that tricycles to Pacol charge special-trip fares, and a Recommended J Centro-Carolina-Panicuason jeepney with an estimated fare of ₱18 to ₱25.",
+  far: "Trip options to Pacol: a Local report note that tricycles to Pacol charge special-trip fares, a Recommended J Centro-Carolina-Panicuason jeepney with an estimated fare of ₱18 to ₱25, and a Least walking option that changes from Loop C to J.",
   report: "Report a correction, step 1 of 3: choices such as Wrong curb side, Stop moved or removed and Fare mismatch.",
 };
 
@@ -64,7 +52,7 @@ export const SHOWCASE: readonly { screen: Screen; title: string; body: string }[
   {
     screen: "directions",
     title: "See the ride on the street map.",
-    body: "Plaza Rizal to Ateneo de Naga University: the walk, the jeepney and where it runs, with an estimated fare and an Unverified route badge.",
+    body: "Plaza Rizal to Ateneo de Naga University: the walk and the jeepney drawn on the street map, and the two best options right under it, the Recommended jeepney and a tricycle.",
   },
   {
     screen: "options",
@@ -86,7 +74,7 @@ export const SHOWCASE: readonly { screen: Screen; title: string; body: string }[
 export const MODES = {
   jeepney: {
     title: "Jeepneys, by sign letter and route title",
-    body: "Like the signboard: E Centro-Del Rosario via Magsaysay Ave. Routes without a sourced sign letter show their title only.",
+    body: "Like the signboard: E Centro-Del Rosario via Magsaysay Ave. A route with no known letter shows its title alone, never a guessed letter, and each route page says where its letter comes from.",
   },
   tricycle: {
     title: "Tricycles, with the terminal",

diff --git a/tests/unit/landing-copy.test.ts b/tests/unit/landing-copy.test.ts
@@ -62,7 +62,8 @@ describe("landing copy", () => {
 
   it("names jeepney routes by sign letter only where the app has one", () => {
     expect(ROUTES).toHaveLength(11);
-    expect(ROUTES.filter((r) => r.letter).map((r) => r.letter)).toEqual(["E", "I", "J", "A", "B", "C", "D"]);
+    expect(ROUTES.filter((r) => r.letter).map((r) => r.letter)).toEqual(["E", "F", "G", "H", "I", "J", "A", "B", "C", "D"]);
+    expect(ROUTES[0]).toEqual({ letter: null, title: "Centro-Cararayan-San Isidro" });
     expect(MODES.jeepney.body).toContain("E Centro-Del Rosario via Magsaysay Ave");
   });
 

diff --git a/scripts/capture-landing.ts b/scripts/capture-landing.ts
@@ -166,6 +166,11 @@ async function main() {
     await page.getByTestId("options-toggle").click();
     await sheetSettled(page);
     await page.waitForTimeout(500);
+    // Opening the list can leave it scrolled a little: show it from its top.
+    await page.getByTestId("trip-sheet").evaluate((el) => {
+      for (const n of [el, ...el.querySelectorAll("*")]) if (n.scrollTop) n.scrollTop = 0;
+    });
+    await page.waitForTimeout(300);
     await save(page, `far-${theme}`);
 
     // Report a correction (the first step of the wizard; nothing is sent).

diff --git a/src/ui/landing/theme-compare.tsx b/src/ui/landing/theme-compare.tsx
@@ -2,7 +2,7 @@
 /* eslint-disable @next/next/no-img-element -- pre-encoded WebP captures, see device-frame.tsx. */
 
 import { useState, type CSSProperties } from "react";
-import { SHOT_H, SHOT_W } from "@/ui/landing/landing-content";
+import { SHOT_H, SHOT_W } from "@/ui/landing/shot-size";
 
 /** The same home screen in light and dark, split by a slider (a native range input). */
 export function ThemeCompare() {

diff --git a/src/ui/landing/shot-size.ts b/src/ui/landing/shot-size.ts
@@ -1,0 +1,3 @@
+// The captures in public/landing are 412 x 915 CSS px (Pixel 7 emulation) at 2x.
+export const SHOT_W = 824;
+export const SHOT_H = 1830;
